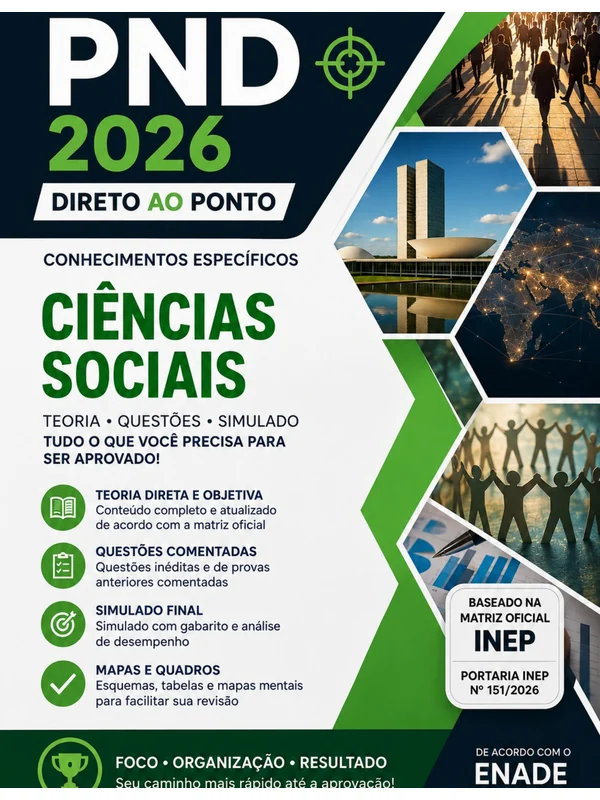
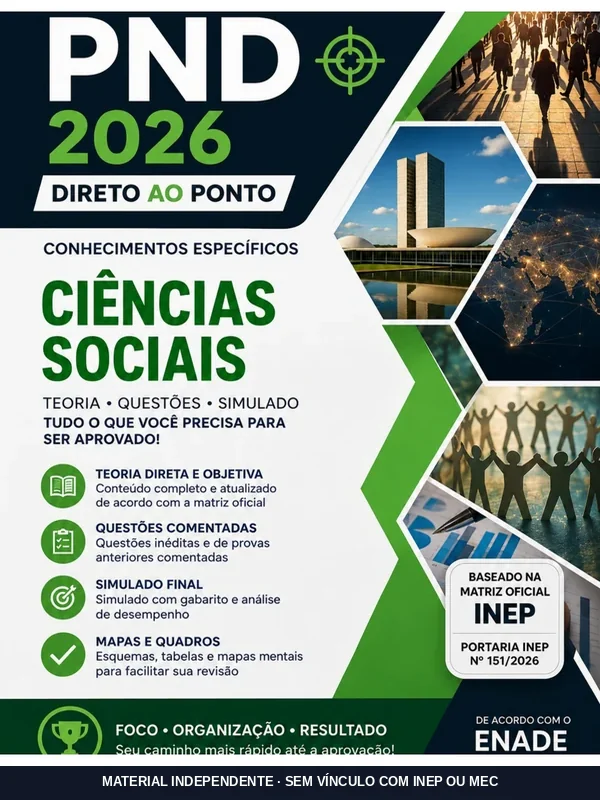
Add files via upload

diff --git a/index.html b/index.html
@@ -6,6 +6,22 @@
 <title>Método PND Reta Final — Sua central de preparação para a PND 2026</title>
 <meta name="description" content="Pare de decidir o que estudar. Siga uma rota pronta para a PND 2026 com mapas mentais, simulados, discursiva, revisão, planner e painel de desempenho.">
 <meta name="theme-color" content="#8B5CF6">
+<link rel="canonical" href="https://metodo-pnd-reta-final.vercel.app/">
+<meta property="og:type" content="website">
+<meta property="og:site_name" content="Método PND Reta Final">
+<meta property="og:locale" content="pt_BR">
+<meta property="og:url" content="https://metodo-pnd-reta-final.vercel.app/">
+<meta property="og:title" content="Método PND Reta Final — apostilas por área para a PND 2026">
+<meta property="og:description" content="Teoria, questões comentadas e simulado da sua área. A partir de R$ 9,90, pagamento único, com 7 dias de garantia.">
+<meta property="og:image" content="https://metodo-pnd-reta-final.vercel.app/og-cover.jpg">
+<meta property="og:image:width" content="1200">
+<meta property="og:image:height" content="630">
+<meta property="og:image:alt" content="Método PND Reta Final — apostilas por área para a PND 2026">
+<meta name="twitter:card" content="summary_large_image">
+<meta name="twitter:title" content="Método PND Reta Final — apostilas por área para a PND 2026">
+<meta name="twitter:description" content="Teoria, questões comentadas e simulado da sua área. A partir de R$ 9,90, pagamento único.">
+<meta name="twitter:image" content="https://metodo-pnd-reta-final.vercel.app/og-cover.jpg">
+<link rel="icon" href="logo-pnd.webp">
 <link rel="preconnect" href="https://fonts.googleapis.com">
 <link rel="preconnect" href="https://fonts.gstatic.com" crossorigin>
 <link href="https://fonts.googleapis.com/css2?family=Outfit:wght@600;700;800&family=Plus+Jakarta+Sans:wght@400;500;600;700;800&display=swap" rel="stylesheet">
@@ -174,10 +190,25 @@ h1,h2,h3,p{margin-top:0}
 
 .apostilas{overflow:hidden}
 .apostilas:before{content:"";position:absolute;width:180px;height:180px;left:-65px;top:100px;background-image:radial-gradient(var(--pink) 2.2px,transparent 2.2px);background-size:15px 15px;opacity:.6;transform:rotate(9deg)}
+.apostila-aviso{max-width:820px;margin:30px auto 0;font-size:11px;line-height:1.5;color:var(--muted-fg);text-align:center}
+.apostila-busca{max-width:560px;margin:0 auto 20px;text-align:center}
+.apostila-busca label{display:block;font-family:"Outfit";font-weight:800;font-size:13px;margin-bottom:7px}
+.plan-select,.apostila-busca select{width:100%;min-height:48px;padding:10px 14px;font-family:"Outfit";font-weight:700;font-size:14px;color:var(--fg);background:#fff;border:2px solid var(--fg);border-radius:14px;box-shadow:3px 3px 0 var(--border);cursor:pointer}
+.plan-pick{margin:0 0 10px}
+.plan-pick label{display:block;font-family:"Outfit";font-weight:800;font-size:12px;margin-bottom:6px}
+.apostila-card.destaque{outline:3px dashed var(--accent);outline-offset:5px}
+.captura{padding:56px 0}
+.captura-box{max-width:720px;margin:auto;padding:28px 24px;background:#fff;border:2px solid var(--fg);border-radius:22px;box-shadow:6px 6px 0 var(--border);text-align:center}
+.captura-box h2{font-size:26px;margin:0 0 8px}
+.captura-box p{font-size:14px;color:var(--muted-fg);margin:0 0 18px}
+.captura-form{display:flex;gap:10px;flex-wrap:wrap;justify-content:center}
+.captura-form input{flex:1 1 260px;min-height:48px;padding:10px 14px;font-size:14px;border:2px solid var(--fg);border-radius:14px}
+.captura-form button{min-height:48px;padding:10px 22px;font-family:"Outfit";font-weight:800;font-size:14px;color:#fff;background:var(--accent);border:2px solid var(--fg);border-radius:999px;box-shadow:3px 3px 0 var(--fg);cursor:pointer}
+.captura-msg{margin:12px 0 0;font-size:13px;font-weight:700}
 .apostila-note{max-width:820px;margin:0 auto 34px;padding:16px 18px;background:#fff;border:2px dashed var(--fg);border-radius:18px;text-align:center;font-size:13px}
 .apostila-grid{display:grid;grid-template-columns:repeat(4,1fr);gap:16px}
 .apostila-card{position:relative;background:#fff;border:2px solid var(--fg);border-radius:18px;padding:14px;display:flex;flex-direction:column;box-shadow:5px 5px 0 var(--border);transition:.25s cubic-bezier(.34,1.56,.64,1)}
-.apostila-capa{display:block;width:100%;height:auto;aspect-ratio:3/4;object-fit:contain;object-position:center;border:2px solid var(--fg);border-radius:12px;background:#fff;margin-bottom:11px}
+.apostila-capa{display:block;height:210px;width:auto;max-width:100%;flex:none;margin:0 auto 11px;border:2px solid var(--fg);border-radius:10px;background:#fff}
 .apostila-card:hover{transform:translateY(-3px) rotate(-.4deg)}
 .apostila-card.general{background:#F3E8FF;box-shadow:6px 6px 0 #C4B5FD}
 .apostila-index{font-family:"Outfit";font-size:12px;font-weight:800;color:var(--accent)}
@@ -274,7 +305,7 @@ footer strong{color:#fff}
   section{padding:64px 0}.hero{padding:48px 0 62px}.hero h1{font-size:46px}.hero-actions{display:grid}.btn{width:100%;box-shadow:2px 2px 0 var(--fg)}
   .hero-meta{display:grid;grid-template-columns:1fr 1fr}.meta-chip{justify-content:center}.exam-clock{gap:5px}.clock-label{width:100%}.clock-box{min-width:48px;box-shadow:2px 2px 0 var(--fg)}
   .price-star{width:108px;height:108px;right:-15px;top:-22px}.float-sticker{display:none}.shape{display:none}.hero:before{display:none}
-  .bento{gap:12px}.apostila-grid{grid-template-columns:1fr 1fr;gap:11px}.apostila-card{padding:11px}.apostila-card h3{font-size:15px}.apostila-card p{font-size:10px}.apostila-actions{grid-template-columns:1fr}.apostila-link{min-height:46px}
+  .bento{gap:12px}.apostila-grid{grid-template-columns:1fr 1fr;gap:11px}.apostila-capa{height:150px}.apostila-card{padding:11px}.apostila-card h3{font-size:15px}.apostila-card p{font-size:10px}.apostila-actions{grid-template-columns:1fr}.apostila-link{min-height:46px}
   .testimonials{grid-template-columns:1fr 1fr;gap:11px}.testimonial{box-shadow:3px 3px 0 var(--border)}.testimonial-meta span{display:none}
   .guarantee{grid-template-columns:1fr;text-align:center;padding:23px}.gicon{margin:auto}.sticky{display:block}footer{padding-bottom:115px}
   .section-title{font-size:36px}.plan{padding:24px}.popular-star{width:103px;height:103px;top:-40px}.price-row strong{font-size:48px}
@@ -288,7 +319,7 @@ footer strong{color:#fff}
 <body>
 <div class="topbar">
   <div class="container inner">
-    <a class="brand" href="#top"><img src="logo-pnd.png" alt="Logo PND"> Método PND Reta Final</a>
+    <a class="brand" href="#top"><img src="logo-pnd.webp" alt="Logo PND"> Método PND Reta Final</a>
     <nav class="nav" aria-label="Navegação principal">
       <a href="#metodo">Método</a><a href="#conteudo">Materiais</a><a href="#apostilas">Apostilas</a><a href="#depoimentos">Depoimentos</a><a href="#planos">Planos</a>
     </nav>
@@ -323,7 +354,7 @@ footer strong{color:#fff}
     </div>
     <div class="hero-art">
       <div class="hero-card">
-        <img src="promo-supercombo.png" alt="Conjunto de materiais do Método PND Reta Final">
+        <img src="promo-supercombo.webp" alt="Conjunto de materiais do Método PND Reta Final">
         <div class="price-star"><div><small>A PARTIR DE</small><strong>R$ 19,90</strong></div></div>
       </div>
       <div class="float-sticker fs1"><b>🧠 Mapas mentais</b>revisão rápida</div>
@@ -434,7 +465,7 @@ footer strong{color:#fff}
       <p class="section-sub">Menos lista de PDFs. Mais clareza sobre o que cada peça resolve na preparação.</p>
     </div>
     <div class="bento">
-      <article class="bento-card violet span8"><span class="tag">Visão geral do método</span><h3>Sua central de preparação PND 2026</h3><p>Revisão, questões, discursiva, planejamento e acompanhamento reunidos em uma sequência de uso.</p><div class="bento-art"><img loading="lazy" src="promo-supercombo.png" alt="Visão geral do Método PND"></div></article>
+      <article class="bento-card violet span8"><span class="tag">Visão geral do método</span><h3>Sua central de preparação PND 2026</h3><p>Revisão, questões, discursiva, planejamento e acompanhamento reunidos em uma sequência de uso.</p><div class="bento-art"><img loading="lazy" src="promo-supercombo.webp" alt="Visão geral do Método PND"></div></article>
       <article class="bento-card yellow span4"><span class="tag">Revisar</span><h3>Mapas Mentais PND</h3><p>Revisão visual dos eixos de Formação Geral Docente.</p><div class="metric">9 eixos</div></article>
       <article class="bento-card pink span4"><span class="tag">Diagnosticar</span><h3>Simulado Comentado</h3><p>Questões autorais para localizar os pontos que pedem revisão.</p><div class="metric">30 questões</div></article>
       <article class="bento-card mint span4"><span class="tag">Escrever</span><h3>Kit da Discursiva</h3><p>Estrutura, treino e checklist para autocorreção.</p><div class="metric">Prática guiada</div></article>
@@ -455,7 +486,12 @@ footer strong{color:#fff}
       <p class="section-sub">Cada área tem dois acessos: o material Essencial e o Completo. O conteúdo de cada pacote está descrito na seção <a href="#planos" style="color:inherit">Planos</a>.</p>
     </div>
     <div class="apostila-note"><strong>É aqui que você compra:</strong> encontre a sua área, decida entre <b>Essencial</b> e <b>Completo</b> e clique no botão. Áreas marcadas como “Em breve” ainda estão sendo preparadas.</div>
+    <div class="apostila-busca">
+      <label for="busca-area">Qual é a sua área?</label>
+      <select id="busca-area"><option value="">Selecione para ir direto ao seu material</option></select>
+    </div>
     <div class="apostila-grid" id="apostila-grid"></div>
+    <p class="apostila-aviso">Material educacional independente e extraoficial, sem vínculo, parceria ou chancela do INEP ou do MEC. As portarias citadas identificam apenas a matriz de referência pública usada na elaboração.</p>
   </div>
 </section>
 
@@ -479,7 +515,11 @@ footer strong{color:#fff}
           <li><span class="check">✓</span><div><b>Planner + Revisão Ativa</b></div></li>
           <li><span class="check">✓</span><div><b>Painel + Reta Final + Radar + Checklist + Guia</b></div></li>
         </ul>
-        <a href="#apostilas" id="cta-plano-1" class="plan-cta">Ver apostilas Essencial por área <span class="arrow">↓</span></a>
+        <div class="plan-pick">
+          <label for="pick-essencial">Escolha sua área</label>
+          <select id="pick-essencial" class="plan-select" data-variante="essencial"><option value="">Selecione sua área</option></select>
+        </div>
+        <a href="#apostilas" id="cta-plano-1" class="plan-cta" data-variante="essencial">Selecione sua área acima</a>
         <p class="plan-micro">🛡 7 dias de garantia · 📩 acesso por e-mail</p>
       </article>
       <article class="plan complete">
@@ -496,7 +536,11 @@ footer strong{color:#fff}
           <li><span class="check">✓</span><div><b>Discursiva Intensiva</b><small>10 situações-problema extras com modelo e espelho</small></div></li>
           <li><span class="check">✓</span><div><b>Atualizações futuras do Método PND</b><small>Novos materiais previstos dentro do acesso</small></div></li>
         </ul>
-        <a href="#apostilas" id="cta-plano-2" class="plan-cta">Ver apostilas Completo por área <span class="arrow">↓</span></a>
+        <div class="plan-pick">
+          <label for="pick-completo">Escolha sua área</label>
+          <select id="pick-completo" class="plan-select" data-variante="completo"><option value="">Selecione sua área</option></select>
+        </div>
+        <a href="#apostilas" id="cta-plano-2" class="plan-cta" data-variante="completo">Selecione sua área acima</a>
         <p class="plan-micro">🛡 7 dias de garantia · 📩 acesso por e-mail · ♾ arquivos + atualizações</p>
       </article>
     </div>
@@ -552,6 +596,20 @@ footer strong{color:#fff}
   </div>
 </section>
 
+<section class="captura" id="captura" hidden>
+  <div class="container">
+    <div class="captura-box">
+      <h2>Simulado diagnóstico grátis</h2>
+      <p>Dez questões de Formação Geral Docente com gabarito comentado, no seu e-mail. Sem custo e sem compromisso.</p>
+      <div class="captura-form">
+        <input type="email" id="lead-email" placeholder="seu melhor e-mail" autocomplete="email" aria-label="Seu e-mail">
+        <button type="button" id="lead-btn">Quero o simulado</button>
+      </div>
+      <p class="captura-msg" id="lead-msg" role="status"></p>
+    </div>
+  </div>
+</section>
+
 <section class="final">
   <div class="container final-box">
     <span class="kicker">Sua reta final começa aqui</span>
@@ -572,8 +630,8 @@ footer strong{color:#fff}
 
 <div class="sticky">
   <div class="sticky-inner">
-    <div class="sticky-price"><b>Método Completo · a partir de R$ 19,90</b><span>Pagamento único · garantia de 7 dias</span></div>
-    <a href="#apostilas">ESCOLHER MINHA ÁREA</a>
+    <div class="sticky-price"><b id="sticky-price">Método Completo · a partir de R$ 19,90</b><span>Pagamento único · garantia de 7 dias</span></div>
+    <a href="#apostilas" id="sticky-cta">ESCOLHER MINHA ÁREA</a>
   </div>
 </div>
 
@@ -630,23 +688,113 @@ const APOSTILAS = [
   ["quimica","20","Química","Portaria Inep nº 332/2025 · 18 páginas"],
   ["teatro","21","Teatro","Portaria Inep nº 149/2026 · 18 páginas"]
 ];
+/* PRECOS — base por plano, com excecoes por area */
+const PRECO_BASE={essencial:9.90,completo:19.90};
+const PRECO_EXCECAO={"ciencias-da-natureza":{essencial:12.90}};
+function precoDe(id,variante){
+  const ex=PRECO_EXCECAO[id];
+  return (ex&&ex[variante])||PRECO_BASE[variante];
+}
+function brl(v){return 'R$ '+v.toFixed(2).replace('.',',');}
+
 (function renderApostilas(){
   const grid=document.getElementById('apostila-grid');
   if(!grid)return;
-  function makeLink(label,url,variant,icon,area){
-    return url
-      ? `<a class="apostila-link ${variant} active" href="${url}" target="_blank" rel="noopener" data-area="${area}"><strong>${icon} ${label}</strong><small>Comprar agora</small></a>`
-      : `<span class="apostila-link ${variant}" aria-disabled="true"><strong>${icon} ${label}</strong><small>Em breve</small></span>`;
+  function makeLink(label,url,variant,icon,nome,id,variante){
+    if(!url) return `<span class="apostila-link ${variant}" aria-disabled="true"><strong>${icon} ${label}</strong><small>Em breve</small></span>`;
+    const v=precoDe(id,variante);
+    return `<a class="apostila-link ${variant} active" href="${url}" target="_blank" rel="noopener" data-area="${nome}" data-valor="${v}" data-plano="${label}"><strong>${icon} ${label}</strong><small>${brl(v)}</small></a>`;
   }
   APOSTILAS.forEach(([id,index,nome,meta,type,nota])=>{
     const links=APOSTILA_LINKS[id]||{essencial:"",completo:""};
     const card=document.createElement('article');
     card.className='apostila-card'+(type==='general'?' general':'');
-    const actions=`<div class="apostila-actions">${makeLink('Essencial',links.essencial,'essential','📘',nome)}${makeLink('Completo',links.completo,'complete','⭐',nome)}</div>`;
+    card.id='area-'+id;
+    const actions=`<div class="apostila-actions">${makeLink('Essencial',links.essencial,'essential','📘',nome,id,'essencial')}${makeLink('Completo',links.completo,'complete','⭐',nome,id,'completo')}</div>`;
     const capa=`<img class="apostila-capa" src="capas/${id}.webp" loading="lazy" width="600" height="800" alt="Capa da apostila de ${nome} — PND 2026">`;
     const aviso=nota?`<span class="apostila-nota">${nota}</span>`:'';
     card.innerHTML=`${capa}<span class="apostila-index">${index}</span><h3>${nome}</h3><p>${meta}</p>${aviso}${actions}`;
     grid.appendChild(card);
+  });
+})();
+
+/* SELETORES: nos cards de plano e na busca da secao de apostilas */
+(function seletores(){
+  const opcoes=APOSTILAS.map(([id,i,nome])=>`<option value="${id}">${nome}</option>`).join('');
+  const selects=[...document.querySelectorAll('.plan-select'),document.getElementById('busca-area')].filter(Boolean);
+  selects.forEach(sel=>sel.insertAdjacentHTML('beforeend',opcoes));
+
+  const stickyP=document.getElementById('sticky-price'), stickyA=document.getElementById('sticky-cta');
+
+  function aplicaBotao(btn,id,variante){
+    if(!btn)return;
+    if(!id){btn.href='#apostilas';btn.textContent='Selecione sua área acima';btn.removeAttribute('target');return;}
+    const nome=(APOSTILAS.find(a=>a[0]===id)||[])[2]||'';
+    const url=(APOSTILA_LINKS[id]||{})[variante];
+    if(!url){btn.href='#area-'+id;btn.removeAttribute('target');btn.textContent='Material de '+nome+' em breve';return;}
+    btn.href=url;btn.target='_blank';btn.rel='noopener';
+    btn.dataset.area=nome;btn.dataset.valor=precoDe(id,variante);
+    btn.textContent='Quero '+nome+' \u2014 '+brl(precoDe(id,variante))+' \u2192';
+  }
+
+  function escolher(id,origem){
+    selects.forEach(s=>{if(s!==origem)s.value=id;});
+    document.querySelectorAll('.plan-cta[data-variante]').forEach(b=>aplicaBotao(b,id,b.dataset.variante));
+    if(stickyP&&stickyA){
+      const nome=(APOSTILAS.find(a=>a[0]===id)||[])[2];
+      const url=id&&(APOSTILA_LINKS[id]||{}).completo;
+      if(url){
+        stickyP.textContent=nome+' \u00b7 Completo \u00b7 '+brl(precoDe(id,'completo'));
+        stickyA.href=url;stickyA.target='_blank';stickyA.rel='noopener';
+        stickyA.dataset.area=nome;stickyA.dataset.valor=precoDe(id,'completo');stickyA.dataset.variante='completo';
+        stickyA.textContent='COMPRAR AGORA';
+      }else{
+        stickyP.textContent='M\u00e9todo Completo \u00b7 a partir de '+brl(PRECO_BASE.completo);
+        stickyA.href='#apostilas';stickyA.removeAttribute('target');stickyA.textContent='ESCOLHER MINHA \u00c1REA';
+      }
+    }
+    const alvo=id&&document.getElementById('area-'+id);
+    if(alvo){
+      document.querySelectorAll('.apostila-card.destaque').forEach(c=>c.classList.remove('destaque'));
+      alvo.classList.add('destaque');
+    }
+    return alvo;
+  }
+
+  selects.forEach(sel=>{
+    sel.addEventListener('change',()=>{
+      const alvo=escolher(sel.value,sel);
+      if(sel.id==='busca-area'&&alvo)alvo.scrollIntoView({behavior:'smooth',block:'center'});
+    });
+  });
+})();
+
+/* CAPTURA DE E-MAIL
+   Cole abaixo o endereco do seu formulario (Formspree, Google Forms, RD, Brevo...).
+   Enquanto estiver vazio, a secao inteira fica escondida. */
+const LEAD_ENDPOINT="";
+
+(function captura(){
+  const sec=document.getElementById('captura');
+  if(!sec||!LEAD_ENDPOINT)return;
+  sec.hidden=false;
+  const campo=document.getElementById('lead-email'),
+        btn=document.getElementById('lead-btn'),
+        msg=document.getElementById('lead-msg');
+  btn.addEventListener('click',async()=>{
+    const email=(campo.value||'').trim();
+    if(!/^[^@\s]+@[^@\s]+\.[^@\s]+$/.test(email)){msg.textContent='Confira o e-mail digitado.';return;}
+    btn.disabled=true;msg.textContent='Enviando...';
+    try{
+      const r=await fetch(LEAD_ENDPOINT,{method:'POST',headers:{'Content-Type':'application/json','Accept':'application/json'},body:JSON.stringify({email:email,origem:'landing-pnd'})});
+      if(!r.ok)throw new Error(r.status);
+      msg.textContent='Pronto! Confira sua caixa de entrada (e o spam).';
+      campo.value='';
+      if(typeof fbq==='function')fbq('track','Lead',{content_name:'Simulado diagnostico'});
+    }catch(err){
+      msg.textContent='Não consegui enviar agora. Tente de novo em instantes.';
+      btn.disabled=false;
+    }
   });
 })();
 
@@ -664,11 +812,15 @@ const APOSTILAS = [
 })();
 
 (function(){
-  document.querySelectorAll('a.apostila-link.active').forEach(function(el){
-    el.addEventListener('click',function(){
-      if(typeof fbq!=='function')return;
-      var completo=el.classList.contains('complete');
-      fbq('track','InitiateCheckout',{value:completo?19.90:9.90,currency:'BRL',content_name:el.dataset.area||'',content_category:completo?'Completo':'Essencial'});
+  document.addEventListener('click',function(e){
+    var el=e.target.closest('a[href*="pay.cakto.com.br"]');
+    if(!el||typeof fbq!=='function')return;
+    var completo=el.classList.contains('complete')||el.dataset.variante==='completo';
+    fbq('track','InitiateCheckout',{
+      value:parseFloat(el.dataset.valor)||(completo?19.90:9.90),
+      currency:'BRL',
+      content_name:el.dataset.area||'',
+      content_category:completo?'Completo':'Essencial'
     });
   });
 })();
